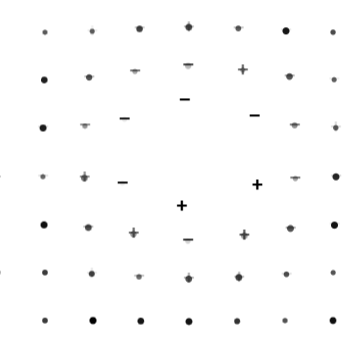
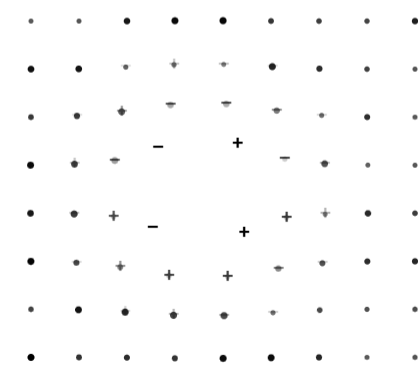
fix: default theme to light instead of system preference
Previously new visitors with dark system preference would see dark mode
with no localStorage record. Now defaults to light theme; user can still
toggle to dark which persists via localStorage.

diff --git a/public/theme-toggle.js b/public/theme-toggle.js
@@ -22,16 +22,9 @@
         }
     }
 
-    function getSystemTheme() {
-        if (window.matchMedia && window.matchMedia('(prefers-color-scheme: dark)').matches) {
-            return 'dark';
-        }
-        return 'light';
-    }
-
     function getActiveTheme() {
         const stored = getStoredTheme();
-        return stored || getSystemTheme();
+        return stored || 'light';
     }
 
     function applyTheme(theme) {